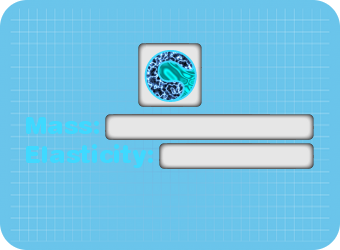
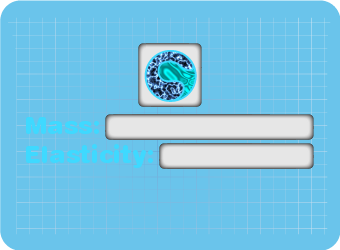
Implementei os huds do level maker

diff --git a/src/StateLevelMaker.cpp b/src/StateLevelMaker.cpp
@@ -29,6 +29,10 @@ StateLevelMaker::StateLevelMaker(ArgsBase* args) : clicking_button(false) {
 	
 	// hud
 	hud = new Sprite("img/levelmaker/hud.png");
+	pupil = new Sprite("img/levelmaker/eatles_pupil.png");
+	pupil_center = r2vec(72, 131);
+	pupil_position = pupil_center;
+	charge_bar = new Sprite("img/levelmaker/charge_bar.png");
 	
 	// all sprites
 	LevelMakerData::sprite_avatar = new Sprite("img/levelmaker/avatar.png");
@@ -63,35 +67,35 @@ StateLevelMaker::StateLevelMaker(ArgsBase* args) : clicking_button(false) {
 	
 	// all buttons
 	
-	button_quit = new Button(new Sprite("img/levelmaker/button_quit.png"));
-	button_quit->getShape()->position = r2vec(60, 50);
-	button_quit->connect(Button::CLICKED, this, &StateLevelMaker::handleQuitButton);
-	button_quit->update();
-	
-	button_save = new Button(new Sprite("img/levelmaker/button_save.png"));
-	button_save->getShape()->position = r2vec(160, 50);
-	button_save->connect(Button::CLICKED, this, &StateLevelMaker::handleSave);
-	button_save->update();
-	
-	button_revert = new Button(new Sprite("img/levelmaker/button_revert.png"));
-	button_revert->getShape()->position = r2vec(60, 100);
-	button_revert->connect(Button::CLICKED, this, &StateLevelMaker::handleRevert);
-	button_revert->update();
-	
 	button_test = new Button(new Sprite("img/levelmaker/button_test.png"));
-	button_test->getShape()->position = r2vec(160, 100);
+	button_test->getShape()->position = r2vec(260, 34);
 	button_test->connect(Button::CLICKED, this, &StateLevelMaker::handleTest);
 	button_test->update();
 	
+	button_revert = new Button(new Sprite("img/levelmaker/button_revert.png"));
+	button_revert->getShape()->position = r2vec(222, 83);
+	button_revert->connect(Button::CLICKED, this, &StateLevelMaker::handleRevert);
+	button_revert->update();
+	
+	button_clone = new Button(new Sprite("img/levelmaker/button_clone.png"));
+	button_clone->getShape()->position = r2vec(201, 130);
+	button_clone->connect(Button::CLICKED, this, &StateLevelMaker::handleClone);
+	button_clone->update();
+	
 	button_delete = new Button(new Sprite("img/levelmaker/button_delete.png"));
-	button_delete->getShape()->position = r2vec(60, 150);
+	button_delete->getShape()->position = r2vec(174, 180);
 	button_delete->connect(Button::CLICKED, this, &StateLevelMaker::handleDelete);
 	button_delete->update();
 	
-	button_clone = new Button(new Sprite("img/levelmaker/button_clone.png"));
-	button_clone->getShape()->position = r2vec(160, 150);
-	button_clone->connect(Button::CLICKED, this, &StateLevelMaker::handleClone);
-	button_clone->update();
+	button_save = new Button(new Sprite("img/levelmaker/button_save.png"));
+	button_save->getShape()->position = r2vec(135, 229);
+	button_save->connect(Button::CLICKED, this, &StateLevelMaker::handleSave);
+	button_save->update();
+	
+	button_quit = new Button(new Sprite("img/levelmaker/button_quit.png"));
+	button_quit->getShape()->position = r2vec(43, 276);
+	button_quit->connect(Button::CLICKED, this, &StateLevelMaker::handleQuitButton);
+	button_quit->update();
 	
 	// data
 	if (dynamic_cast<Args*>(args))
@@ -106,6 +110,8 @@ StateLevelMaker::StateLevelMaker(ArgsBase* args) : clicking_button(false) {
 StateLevelMaker::~StateLevelMaker() {
 	delete bg;
 	delete hud;
+	delete pupil;
+	delete charge_bar;
 	
 	// all sprites
 	delete LevelMakerData::sprite_avatar;
@@ -196,6 +202,8 @@ void StateLevelMaker::handleUnstack(ArgsBase* args) {
 }
 
 void StateLevelMaker::update() {
+	updatePupil();
+	
 	checkSelectionRequests();
 	
 	LevelMakerPanel::checkSelectionRequests();
@@ -225,6 +233,16 @@ void StateLevelMaker::update() {
 void StateLevelMaker::render() {
 	bg->render(bg_x, bg_y);
 	
+	// hud
+	hud->render();
+	pupil->render(pupil_position.x(0), pupil_position.x(1), true);
+	button_save->render();
+	button_revert->render();
+	button_test->render();
+	button_quit->render();
+	button_delete->render();
+	button_clone->render();
+	
 	// borders
 	if (data->has_top)
 		border_top->render(30, 0);
@@ -235,14 +253,7 @@ void StateLevelMaker::render() {
 	if (data->has_left)
 		border_left->render();
 	
-	// hud
-	hud->render();
-	button_save->render();
-	button_revert->render();
-	button_test->render();
-	button_quit->render();
-	button_delete->render();
-	button_clone->render();
+	charge_bar->render(0, 666);
 	
 	data->blackhole->render();
 	
@@ -265,6 +276,16 @@ void StateLevelMaker::render() {
 	
 	// panel
 	LevelMakerPanel::renderCurrent();
+}
+
+void StateLevelMaker::updatePupil() {
+	R2Vector range = r2vec(InputManager::instance()->mouseX(), InputManager::instance()->mouseY()) - pupil_center;
+	try {
+		pupil_position = pupil_center + range.unitvec()*4*range.size()/500;
+	}
+	catch (DirectionNotDefined&) {
+		pupil_position = pupil_center;
+	}
 }
 
 void StateLevelMaker::renderAvatarSpeed() {

diff --git a/src/PanelParticle.cpp b/src/PanelParticle.cpp
@@ -85,12 +85,51 @@ void PanelParticle::show() {
 		input_charge.set(eval(((Particle*)(*LevelMakerObject::selected.begin())->getGameObject())->getCharge()));
 	}
 	else {
-		text_input_mass->setText("");
-		input_mass.clear();
-		text_input_elasticity->setText("");
-		input_elasticity.clear();
-		text_input_charge->setText("");
-		input_charge.clear();
+		Scalar mass, elasticity, charge;
+		bool set_mass = true;
+		bool set_elasticity = true;
+		bool set_charge = true;
+		
+		set<LevelMakerObject*>::iterator it = LevelMakerObject::selected.begin();
+		
+		mass = ((Particle*)(*it)->getGameObject())->getMass();
+		elasticity = ((Particle*)(*it)->getGameObject())->getElasticity();
+		charge = ((Particle*)(*it)->getGameObject())->getCharge();
+		
+		++it;
+		
+		for (it = it; it != LevelMakerObject::selected.end(); ++it) {
+			if ((!set_mass) && (!set_elasticity) && (!set_charge))
+				break;
+			
+			if (((Particle*)(*it)->getGameObject())->getMass() != mass)
+				set_mass = false;
+			if (((Particle*)(*it)->getGameObject())->getElasticity() != elasticity)
+				set_elasticity = false;
+			if (((Particle*)(*it)->getGameObject())->getCharge() != charge)
+				set_charge = false;
+		}
+		
+		if (set_mass)
+			input_mass.set(eval(mass));
+		else {
+			text_input_mass->setText("");
+			input_mass.clear();
+		}
+		
+		if (set_elasticity)
+			input_elasticity.set(eval(elasticity));
+		else {
+			text_input_elasticity->setText("");
+			input_elasticity.clear();
+		}
+		
+		if (set_charge)
+			input_charge.set(eval(charge));
+		else {
+			text_input_charge->setText("");
+			input_charge.clear();
+		}
 	}
 	
 	updatePositions();

diff --git a/src/PanelItem.cpp b/src/PanelItem.cpp
@@ -128,12 +128,51 @@ void PanelItem::show() {
 		input_value.set(eval(((Item*)(*LevelMakerObject::selected.begin())->getGameObject())->getValue()));
 	}
 	else {
-		text_input_mass->setText("");
-		input_mass.clear();
-		text_input_elasticity->setText("");
-		input_elasticity.clear();
-		text_input_value->setText("");
-		input_value.clear();
+		Scalar mass, elasticity, value;
+		bool set_mass = true;
+		bool set_elasticity = true;
+		bool set_value = true;
+		
+		set<LevelMakerObject*>::iterator it = LevelMakerObject::selected.begin();
+		
+		mass = ((Particle*)(*it)->getGameObject())->getMass();
+		elasticity = ((Particle*)(*it)->getGameObject())->getElasticity();
+		value = ((Item*)(*it)->getGameObject())->getValue();
+		
+		++it;
+		
+		for (it = it; it != LevelMakerObject::selected.end(); ++it) {
+			if ((!set_mass) && (!set_elasticity) && (!set_value))
+				break;
+			
+			if (((Particle*)(*it)->getGameObject())->getMass() != mass)
+				set_mass = false;
+			if (((Particle*)(*it)->getGameObject())->getElasticity() != elasticity)
+				set_elasticity = false;
+			if (((Item*)(*it)->getGameObject())->getValue() != value)
+				set_value = false;
+		}
+		
+		if (set_mass)
+			input_mass.set(eval(mass));
+		else {
+			text_input_mass->setText("");
+			input_mass.clear();
+		}
+		
+		if (set_elasticity)
+			input_elasticity.set(eval(elasticity));
+		else {
+			text_input_elasticity->setText("");
+			input_elasticity.clear();
+		}
+		
+		if (set_value)
+			input_value.set(eval(value));
+		else {
+			text_input_value->setText("");
+			input_value.clear();
+		}
 	}
 	
 	// operations

diff --git a/src/StateLevelMaker.hpp b/src/StateLevelMaker.hpp
@@ -30,8 +30,9 @@ public:
 private:
 	int bg_x, bg_y;
 	Sprite* bg;
-	
 	Sprite* hud;
+	Sprite* pupil;
+	Sprite* charge_bar;
 	
 	Sprite* border_top;
 	Sprite* border_right;
@@ -48,6 +49,9 @@ private:
 	bool clicking_button;
 	
 	LevelMakerData* data;
+	
+	lalge::R2Vector pupil_center;
+	lalge::R2Vector pupil_position;
 public:
 	StateLevelMaker(ArgsBase* args);
 	~StateLevelMaker();
@@ -57,6 +61,7 @@ public:
 	void update();
 	void render();
 private:
+	void updatePupil();
 	void renderAvatarSpeed();
 	
 	void disableButtons();
